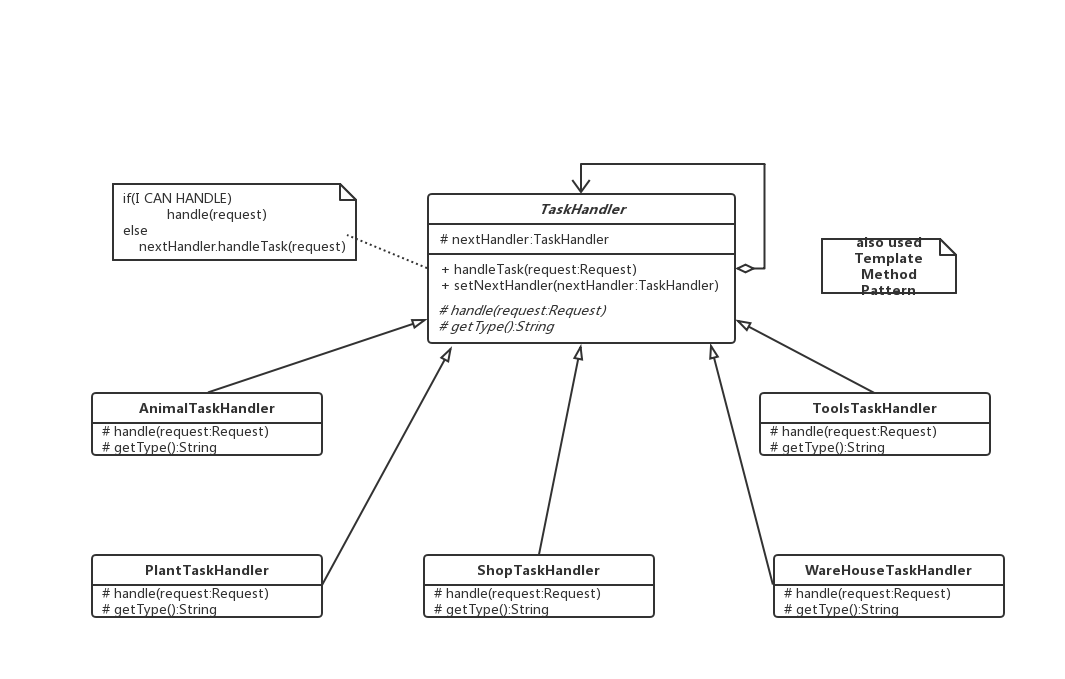
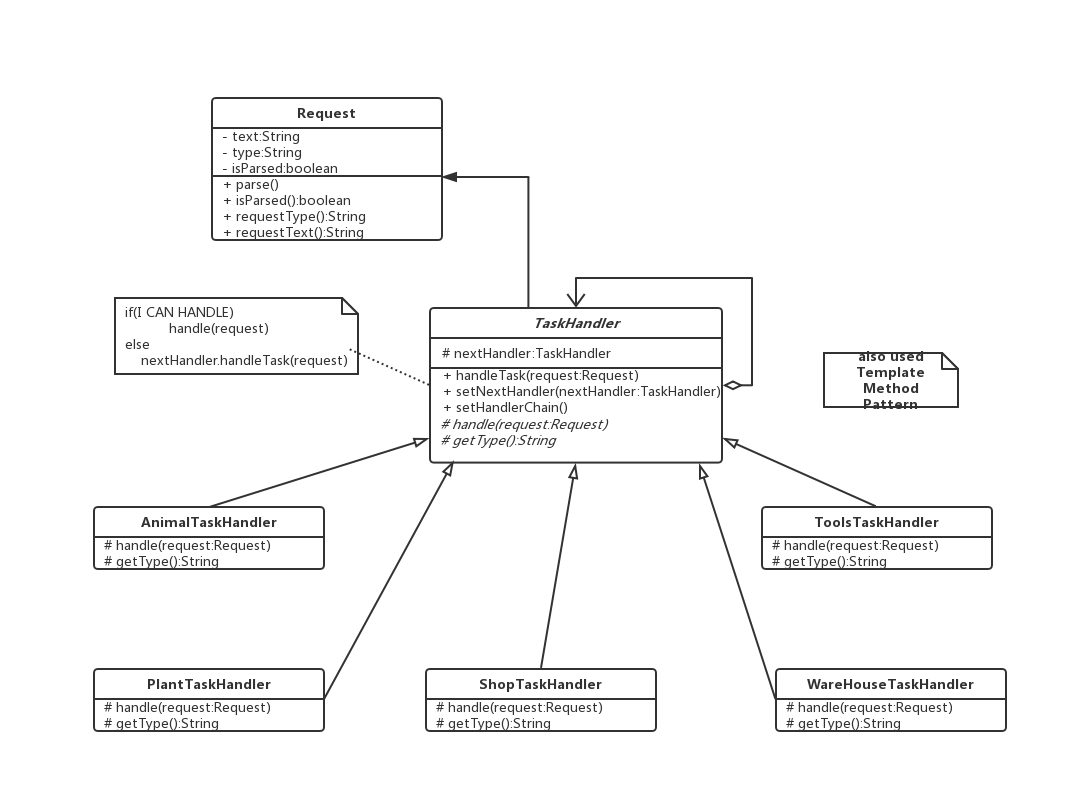
Update Main Class and uml diagram of ChainOfResponsibility Pattern

diff --git a/src/huangduValley/farm/taskHandler/TaskHandler.java b/src/huangduValley/farm/taskHandler/TaskHandler.java
@@ -1,15 +1,17 @@
 package huangduValley.farm.taskHandler;
 
+import huangduValley.farm.Stdout;
+
 /**
  * the base class of handler
  */
 
 public abstract class TaskHandler {
-    protected TaskHandler nextHandler;//the next handler of the chain
+    private TaskHandler nextHandler;//the next handler of the chain
 
     /**
      * add handler to the chain
-     * @param nextHandler
+     * @param nextHandler:the next handler of chain
      */
     public final void setNextHandler(TaskHandler nextHandler) {
         if(this.nextHandler==null)
@@ -19,6 +21,16 @@ public abstract class TaskHandler {
     }
 
     /**
+     * set a default chain of handlers
+     */
+    public final void setHandlerChain(){
+        this.setNextHandler(new AnimalTaskHandler());
+        this.setNextHandler(new ShopTaskHandler());
+        this.setNextHandler(new ToolsTaskHandler());
+        this.setNextHandler(new WareHouseTaskHandler());
+        this.setNextHandler(new PlantTaskHandler());
+    }
+    /**
      * get the type of the handler to know whether it can handle the request.
      * @return the type of handler
      */
@@ -26,27 +38,27 @@ public abstract class TaskHandler {
 
     /**
      * the concrete method to handle the request
-     * @param request
+     * @param request:the request to handle
      */
-    protected abstract void handle(Request request);
+    protected abstract void handle(Request request) throws Exception;
 
     /**
      * the base method of handling request
      * the template method of the pattern
-     * @param request
+     * @param request:the request to handle
      */
-    public final void handleRequest(Request request){
+    public final void handleRequest(Request request) throws Exception {
         if(!request.isParsed()){//parse request firstly
             request.parse();
         }
 
-        if(this.getType()==request.requestType())//type match,handle
+        if(this.getType().equals(request.requestType()))//type match,handle
             this.handle(request);
         else{                                     //not match,pass it to the next handler of the chain (if it exists)
             if(this.nextHandler!=null)
                 this.nextHandler.handleRequest(request);
             else
-                System.out.println("All of our handlers cannot handle this task(request)!");
+                Stdout.print(this, "All of our handlers cannot handle this task(request)!");
         }
     }
 }

diff --git a/src/huangduValley/farm/taskHandler/Request.java b/src/huangduValley/farm/taskHandler/Request.java
@@ -1,5 +1,7 @@
 package huangduValley.farm.taskHandler;
 
+import huangduValley.farm.Stdout;
+
 /**
  * the Request class:each task will be expressed as a request
  * before the request is parsed,nobody knows its type so that we cannot be ware of the handler
@@ -12,7 +14,7 @@ public class Request {
 
     /**
      * constructor
-     * @param command
+     * @param command:concrete command sentence
      */
     public Request(String command){
         this.text=command;
@@ -22,21 +24,21 @@ public class Request {
     /**
      * method:parse the request to get its type
      */
-    public void parse(){
-        if(text.indexOf("animal")!=-1||text.indexOf("Animal")!=-1)
+    void parse(){
+        if(text.contains("animal") || text.contains("Animal"))
             this.type="Animal";
-        else if(text.indexOf("Plant")!=-1||text.indexOf("plant")!=-1)
+        else if(text.contains("Plant") || text.contains("plant"))
             this.type="Plant";
-        else if(text.indexOf("shop")!=-1||text.indexOf("Shop")!=-1)
+        else if(text.contains("shop") || text.contains("Shop"))
             this.type="Shop";
-        else if(text.indexOf("warehouse")!=-1||text.indexOf("WareHouse")!=-1)
+        else if(text.contains("warehouse") || text.contains("WareHouse"))
             this.type="WareHouse";
-        else if(text.indexOf("Tools")!=-1||text.indexOf("tools")!=-1)
+        else if(text.contains("Tools") || text.contains("tools"))
             this.type="Tools";
         else
         {
             this.type="Unknown";
-            System.out.println("This request has something wrong.We can not handle it!");
+            Stdout.print(this, "This request has something wrong.We can not handle it!");
         }
 
         this.isParsed=true;
@@ -46,7 +48,7 @@ public class Request {
      * get the parsing type of request
      * @return isParsed
      */
-    public boolean isParsed(){
+    boolean isParsed(){
         return this.isParsed;
     }
 
@@ -54,7 +56,13 @@ public class Request {
      * get the type of request
      * @return request type
      */
-    public String requestType(){
+    String requestType(){
         return this.type;
     }
+
+    /**
+     * get the concrete information of request
+     * @return request text
+     */
+    String requestText(){return this.text;}
 }

diff --git a/src/huangduValley/farm/Main.java b/src/huangduValley/farm/Main.java
@@ -2,6 +2,7 @@ package huangduValley.farm;
 
 import huangduValley.farm.manager.Manager;
 import huangduValley.farm.storage.Explorer;
+import huangduValley.farm.taskHandler.*;
 
 public class Main {
 
@@ -16,16 +17,20 @@ public class Main {
             // 你有一个仓库，存放着水、化肥、收获的产物等等
             // 对于有强迫症的你来说，一定要把这些杂物分门别类地排放好
             // 所以，你通知合伙人们，在仓库里放置一个私密格子，并称之为巴啦啦格子
-            Explorer explorer = Explorer.getInstance();
-            explorer.backRoot();
-            explorer.addBag("Balala");
+            // 于是，任务发出“put a private bag named Balala into warehouse"
+            // 合伙人将会传递任务直到处理
+            TaskHandler rootHandler=new PlantTaskHandler();
+            rootHandler.setHandlerChain();
+            Request request1=new Request("put a private bag named Balala into warehouse");
+            rootHandler.handleRequest(request1);
             // 并把你心爱的奖杯放在了里面
-            explorer.into("Balala");
-            explorer.addItems("Trophy", 1);
+            // 于是，任务发出"add a trophy into warehouse"
+            Request request2=new Request("add a trophy into warehouse");
+            rootHandler.handleRequest(request2);
             // 此外，你在仓库的主空间里还有100吨的水和100吨的化肥
-            explorer.back();
-            explorer.addItems("Water", 100);
-            explorer.addItems("Fertilizer", 100);
+            // 于是，任务发出"add 100 tons of water and 100 tons of fertilizer into MAIN space of warehouse"
+            Request request3=new Request("add 100 tons of water and 100 tons of fertilizer into MAIN space of warehouse");
+            rootHandler.handleRequest(request3);
 
             // manager, land
             // 你还雇了一位经理帮你打理一些事物，并通过神秘外星科技与他交流

diff --git a/src/huangduValley/farm/taskHandler/WareHouseTaskHandler.java b/src/huangduValley/farm/taskHandler/WareHouseTaskHandler.java
@@ -1,5 +1,8 @@
 package huangduValley.farm.taskHandler;
 
+import huangduValley.farm.Stdout;
+import huangduValley.farm.storage.Explorer;
+
 /**
  * WareHouseTaskHandler:the handler to handle the task in WareHouse domain.
  */
@@ -10,7 +13,29 @@ public class WareHouseTaskHandler extends TaskHandler {
     }
 
     @Override
-    protected void handle(Request request) {
-        System.out.println("The task of -"+request.requestType()+"- has been handled by WareHouseTaskHandler.");
+    protected void handle(Request request) throws Exception {
+        switch (request.requestText()) {
+            case "put a private bag named Balala into warehouse": {
+                Explorer explorer = Explorer.getInstance();
+                explorer.backRoot();
+                explorer.addBag("Balala");
+                break;
+            }
+            case "add a trophy into warehouse": {
+                Explorer explorer = Explorer.getInstance();
+                explorer.into("Balala");
+                explorer.addItems("Trophy", 1);
+                break;
+            }
+            case "add 100 tons of water and 100 tons of fertilizer into MAIN space of warehouse": {
+                Explorer explorer = Explorer.getInstance();
+                explorer.back();
+                explorer.addItems("Water", 100);
+                explorer.addItems("Fertilizer", 100);
+                break;
+            }
+        }
+
+        Stdout.print(this, "The task of -"+request.requestType()+"- has been handled by WareHouseTaskHandler.");
     }
 }

diff --git a/src/huangduValley/farm/fence/Rectangle.java b/src/huangduValley/farm/fence/Rectangle.java
@@ -1,19 +1,21 @@
 package huangduValley.farm.fence;
 
+import huangduValley.farm.Stdout;
+
 /**
  * the rectangle shape: display using coordinates of two points on the diagonal.
  * This way is accurate and definite
  * (x1,y1,x2,y2)----(x1,y1)left-down point,(x2,y2)right-upper point
  */
-public class Rectangle {
+class Rectangle {
     /**
      * the method to display a rectangle with coordinate(x1,y1),(x2,y2)
-     * @param x1
-     * @param y1
-     * @param x2
-     * @param y2
+     * @param x1:x coordinate of left-down point
+     * @param y1:y coordinate of left-down point
+     * @param x2:x coordinate of right-upper point
+     * @param y2:y coordinate of right-upper point
      */
-    public void display(int x1,int y1,int x2,int y2){
-        System.out.print("Rectangle shape with left-down point ("+x1+","+y1+") and right-upper point ("+x2+","+y2+")");
+    void display(int x1, int y1, int x2, int y2){
+        Stdout.print(this, "Rectangle shape with left-down point ("+x1+","+y1+") and right-upper point ("+x2+","+y2+")");
     }
 }

diff --git a/src/huangduValley/farm/taskHandler/AnimalTaskHandler.java b/src/huangduValley/farm/taskHandler/AnimalTaskHandler.java
@@ -1,5 +1,7 @@
 package huangduValley.farm.taskHandler;
 
+import huangduValley.farm.Stdout;
+
 /**
  * AnimalTaskHandler:the handler to handle the task in animal domain.
  */
@@ -11,6 +13,6 @@ public class AnimalTaskHandler extends TaskHandler {
 
     @Override
     protected void handle(Request request) {
-        System.out.println("The task of -"+request.requestType()+"- has been handled by AnimalTaskHandler.");
+        Stdout.print(this, "The task of -"+request.requestType()+"- has been handled by AnimalTaskHandler.");
     }
 }

diff --git a/src/huangduValley/farm/taskHandler/PlantTaskHandler.java b/src/huangduValley/farm/taskHandler/PlantTaskHandler.java
@@ -1,5 +1,7 @@
 package huangduValley.farm.taskHandler;
 
+import huangduValley.farm.Stdout;
+
 /**
  * PlantTaskHandler:the handler to handle the task in plant domain.
  */
@@ -11,6 +13,6 @@ public class PlantTaskHandler extends TaskHandler {
 
     @Override
     protected void handle(Request request) {
-        System.out.println("The task of -"+request.requestType()+"- has been handled by PlantTaskHandler.");
+        Stdout.print(this, "The task of -"+request.requestType()+"- has been handled by PlantTaskHandler.");
     }
 }

diff --git a/src/huangduValley/farm/taskHandler/ToolsTaskHandler.java b/src/huangduValley/farm/taskHandler/ToolsTaskHandler.java
@@ -1,5 +1,7 @@
 package huangduValley.farm.taskHandler;
 
+import huangduValley.farm.Stdout;
+
 /**
  * ToolsTaskHandler:the handler to handle the task in tools domain.
  */
@@ -11,6 +13,6 @@ public class ToolsTaskHandler extends TaskHandler {
 
     @Override
     protected void handle(Request request) {
-        System.out.println("The task of -"+request.requestType()+"- has been handled by ToolsTaskHandler.");
+        Stdout.print(this, "The task of -"+request.requestType()+"- has been handled by ToolsTaskHandler.");
     }
 }

diff --git a/src/huangduValley/farm/taskHandler/ShopTaskHandler.java b/src/huangduValley/farm/taskHandler/ShopTaskHandler.java
@@ -1,5 +1,7 @@
 package huangduValley.farm.taskHandler;
 
+import huangduValley.farm.Stdout;
+
 /**
  * ShopTaskHandler:the handler to handle the task in shop domain.
  */
@@ -11,6 +13,6 @@ public class ShopTaskHandler extends TaskHandler {
 
     @Override
     protected void handle(Request request) {
-        System.out.println("The task of -"+request.requestType()+"- has been handled by ShopTaskHandler.");
+        Stdout.print(this, "The task of -"+request.requestType()+"- has been handled by ShopTaskHandler.");
     }
 }

diff --git a/src/huangduValley/farm/fence/RectangleAdapter.java b/src/huangduValley/farm/fence/RectangleAdapter.java
@@ -1,5 +1,7 @@
 package huangduValley.farm.fence;
 
+import huangduValley.farm.Stdout;
+
 /**
  * the adapter to adapter a Rectangle method to FenceShape method
  * so that we can reuse the existing method or interface.
@@ -15,7 +17,7 @@ public class RectangleAdapter implements FenceShape {
         int x1=x+width;
         int y1=y+height;
 
-        System.out.print("We have built a fence in ");
+        Stdout.print(this, "We have built a fence in ...");
         adaptee.display(x, y, x1, y1);
     }
 }

diff --git a/src/huangduValley/farm/test/Test_chainOfResponsibility.java b/src/huangduValley/farm/test/Test_chainOfResponsibility.java
@@ -7,7 +7,7 @@ import huangduValley.farm.taskHandler.*;
  * @author zdy
  */
 public class Test_chainOfResponsibility {
-    public static void main(String[] args){
+    public static void main(String[] args) throws Exception {
         Request request1=new Request("harvest the plant");
         Request request2=new Request("feed the Animal");
         Request request3=new Request("store in the warehouse");
